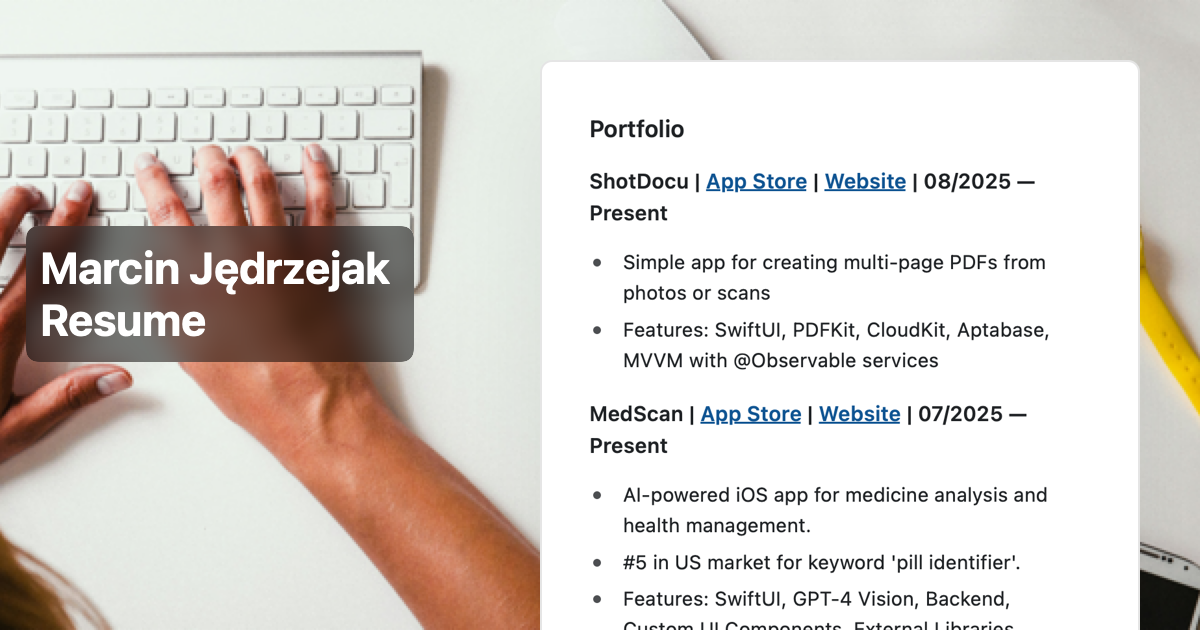
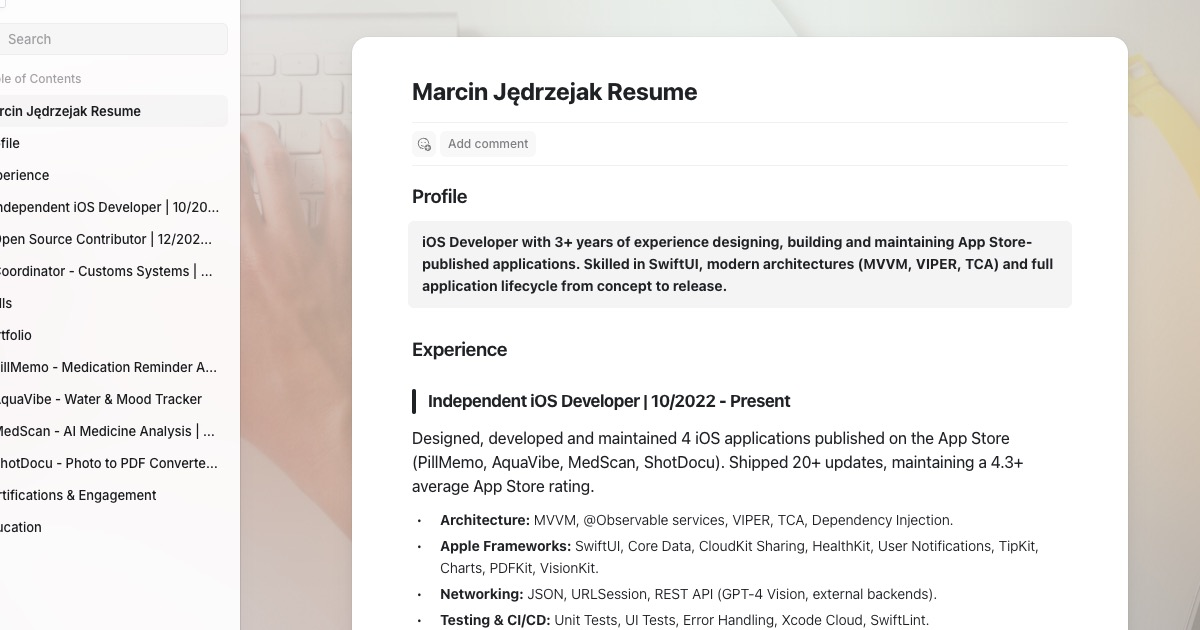
style: Refresh portfolio data and App Store subtitles

diff --git a/index.html b/index.html
@@ -5,7 +5,7 @@
     <meta charset="UTF-8">
     <meta name="viewport" content="width=device-width, initial-scale=1.0">
     <meta http-equiv="Content-Security-Policy"
-        content="default-src 'self'; base-uri 'self'; form-action 'self'; frame-ancestors 'none'; object-src 'none'; img-src 'self' https: data:; font-src 'self' https://fonts.gstatic.com data:; style-src 'self' 'unsafe-inline' https://fonts.googleapis.com; script-src 'self' 'unsafe-inline'; connect-src 'self'; upgrade-insecure-requests">
+        content="default-src 'self'; base-uri 'self'; form-action 'self'; frame-ancestors 'none'; object-src 'none'; img-src 'self' https: data:; font-src 'self' https://fonts.gstatic.com data:; style-src 'self' 'unsafe-inline' https://fonts.googleapis.com; script-src 'self' 'unsafe-inline'; connect-src 'self' https://github-contributions-api.deno.dev https://r.jina.ai; upgrade-insecure-requests">
     <meta name="referrer" content="no-referrer">
     <title>Marcin Jędrzejak</title>
     <link rel="preconnect" href="https://fonts.googleapis.com">
@@ -904,7 +904,7 @@
                         </div>
                         <div class="card__text">
                             <div class="card__title">PillMemo</div>
-                            <div class="card__subtitle">Med Timer & Pill Counter · App Store</div>
+                            <div class="card__subtitle">Med Timer &amp; Pill Counter</div>
                         </div>
                     </div>
                 </a>
@@ -950,7 +950,7 @@
                         </div>
                         <div class="card__text">
                             <div class="card__title">PillMemo Framer</div>
-                            <div class="card__subtitle">Website</div>
+                            <div class="card__subtitle">Landing page</div>
                         </div>
                     </div>
                 </a>
@@ -978,7 +978,7 @@
                         </div>
                         <div class="card__text">
                             <div class="card__title">AquaVibe</div>
-                            <div class="card__subtitle">Daily Goals, Healthy Life · App Store</div>
+                            <div class="card__subtitle">Daily Goals, Healthy Life</div>
                         </div>
                     </div>
                 </a>
@@ -1026,7 +1026,7 @@
                         </div>
                         <div class="card__text">
                             <div class="card__title">MedScan</div>
-                            <div class="card__subtitle">Check meds before you take · App Store</div>
+                            <div class="card__subtitle">Check meds before you take</div>
                         </div>
                     </div>
                 </a>
@@ -1076,7 +1076,7 @@
                         </div>
                         <div class="card__text">
                             <div class="card__title">ShotDocu</div>
-                            <div class="card__subtitle">Convert image into PDFs easily · App Store</div>
+                            <div class="card__subtitle">Convert image into PDFs easily</div>
                         </div>
                     </div>
                 </a>
@@ -1128,7 +1128,7 @@
                         </div>
                         <div class="card__text">
                             <div class="card__title">TinyGifts</div>
-                            <div class="card__subtitle">Open daily advent surprises · App Store</div>
+                            <div class="card__subtitle">Open daily advent surprises</div>
                         </div>
                     </div>
                 </a>
@@ -1177,7 +1177,7 @@
                         </div>
                         <div class="card__text">
                             <div class="card__title">Basic Car Maintenance</div>
-                            <div class="card__subtitle">Open source · Hacktoberfest 2023</div>
+                            <div class="card__subtitle">Open source repository</div>
                         </div>
                     </div>
                 </a>
@@ -1255,9 +1255,9 @@
                     </div>
                     <div class="github-extras">
                         <div class="github-stats">
-                            <span class="github-stats__item"><span class="github-stats__num">121</span>repos</span>
-                            <span class="github-stats__item"><span
-                                    class="github-stats__num">995</span>contributions</span>
+                            <span class="github-stats__item"><span class="github-stats__num">122</span>repos</span>
+                            <span class="github-stats__item"><span id="githubContributions"
+                                    class="github-stats__num">886</span>contributions</span>
                         </div>
                         <div class="heatmap" id="heatmap"></div>
                     </div>
@@ -1278,7 +1278,7 @@
                     <div class="card__info">
                         <div class="card__text">
                             <div class="card__title">@maartin_j</div>
-                            <div class="card__subtitle">123 following</div>
+                            <div class="card__subtitle"><span id="xFollowing">125</span> following</div>
                         </div>
                     </div>
                 </a>
@@ -1342,25 +1342,57 @@
             });
         })();
 
-        // Generate GitHub-style contribution heatmap
+        // Fetch current GitHub contributions and X following.
         (function () {
+            const githubContributions = document.getElementById('githubContributions');
             const heatmap = document.getElementById('heatmap');
-            if (!heatmap) return;
-            const levels = ['', '--l1', '--l2', '--l3', '--l4'];
-            const pattern = [
-                0, 0, 1, 0, 1, 2, 0, 1, 0, 0, 2, 1, 3, 0, 1, 0, 2, 1, 0, 0, 1, 4, 2, 0, 1, 0,
-                1, 0, 0, 2, 0, 1, 1, 0, 2, 1, 0, 3, 1, 0, 0, 1, 0, 2, 1, 0, 3, 2, 1, 0, 0, 1,
-                0, 1, 2, 1, 0, 0, 2, 1, 3, 2, 0, 1, 0, 0, 1, 2, 0, 1, 3, 1, 0, 0, 2, 1, 0, 0,
-                2, 0, 1, 0, 3, 1, 0, 2, 1, 0, 1, 0, 2, 1, 0, 0, 1, 3, 2, 0, 1, 4, 1, 0, 1, 2,
-                0, 0, 0, 1, 2, 0, 1, 0, 0, 1, 2, 0, 1, 0, 1, 0, 0, 2, 1, 0, 0, 1, 0, 2, 0, 0,
-                1, 2, 0, 0, 1, 0, 2, 3, 1, 0, 0, 1, 0, 2, 0, 1, 3, 0, 1, 0, 2, 0, 1, 0, 0, 1,
-                0, 1, 0, 0, 0, 1, 0, 1, 0, 2, 1, 0, 0, 1, 0, 0, 1, 0, 0, 1, 2, 0, 0, 1, 0, 0
-            ];
-            pattern.forEach(function (l) {
-                var d = document.createElement('div');
-                d.className = 'heatmap__cell' + (l ? ' heatmap__cell' + levels[l] : '');
-                heatmap.appendChild(d);
-            });
+            const xFollowing = document.getElementById('xFollowing');
+            const levels = {
+                NONE: '',
+                FIRST_QUARTILE: '--l1',
+                SECOND_QUARTILE: '--l2',
+                THIRD_QUARTILE: '--l3',
+                FOURTH_QUARTILE: '--l4'
+            };
+
+            function renderHeatmap(days) {
+                if (!heatmap) return;
+                heatmap.innerHTML = '';
+                days.slice(-182).forEach(function (day) {
+                    var d = document.createElement('div');
+                    var suffix = levels[day.contributionLevel] || '';
+                    d.className = 'heatmap__cell' + (suffix ? ' heatmap__cell' + suffix : '');
+                    d.title = day.date + ': ' + day.contributionCount + ' contributions';
+                    heatmap.appendChild(d);
+                });
+            }
+
+            fetch('https://github-contributions-api.deno.dev/maartinj.json')
+                .then(function (response) { return response.json(); })
+                .then(function (data) {
+                    var days = (data.contributions || []).flat();
+                    if (!days.length) return;
+                    var total = days.reduce(function (sum, day) {
+                        return sum + (day.contributionCount || 0);
+                    }, 0);
+                    if (githubContributions) {
+                        githubContributions.textContent = String(total);
+                    }
+                    renderHeatmap(days);
+                })
+                .catch(function () {
+                });
+
+            fetch('https://r.jina.ai/http://x.com/maartin_j')
+                .then(function (response) { return response.text(); })
+                .then(function (text) {
+                    var match = text.match(/\[(\d[\d,]*) Following\]\(https:\/\/x\.com\/maartin_j\/following\)/i);
+                    if (match && xFollowing) {
+                        xFollowing.textContent = match[1];
+                    }
+                })
+                .catch(function () {
+                });
         })();
 
         // Open local docs in a script-opened tab so Back button can return to the previous tab reliably.

diff --git a/aquavibe-docs.html b/aquavibe-docs.html
@@ -85,6 +85,15 @@
             font-size: 20px;
         }
 
+        .badge {
+            border: 1px solid var(--border);
+            border-radius: 999px;
+            padding: 4px 10px;
+            font-size: 12px;
+            color: var(--muted);
+            background: var(--surface-2);
+        }
+
         .content {
             padding: 24px;
         }
@@ -208,11 +217,12 @@
         <article class="card">
             <header class="repo-header">
                 <div class="repo-title">😎💧 AquaVibe</div>
+                <span class="badge">App Store: v1.0.4 · 2025-08</span>
             </header>
 
             <section class="content">
                 <h1>😎💧 AquaVibe</h1>
-                <p class="intro">Track your wellness journey with AquaVibe, your all-in-one companion for mood, emotion, and hydration tracking 😊💦</p>
+                <p class="intro">Track your wellness journey with AquaVibe, now published in the App Store as Mood Water Tracker: AquaVibe 😊💦</p>
                 <p>The application allows users to set up to 3 daily reminders for consistent tracking and visualize their well-being with beautiful, interactive charts 📈</p>
 
                 <h2>👨💻 Technology Used</h2>
@@ -294,11 +304,11 @@
                     <li>Error handling &amp; alerts</li>
                     <li>Text input validation</li>
                     <li>Project organization - MVVM Architecture</li>
-                    <li>Published in App Store (09/2024)</li>
+                    <li>Current App Store release: v1.0.4 (08/2025)</li>
                 </ul>
 
                 <h2>ℹ License</h2>
-                <p>The AquaVibe is the property of Marcin Jędrzejak. Unauthorized copying, distribution, or modification of this application is strictly prohibited.</p>
+                <p>AquaVibe is the property of Marcin Jędrzejak. Unauthorized copying, distribution, or modification of this application is strictly prohibited.</p>
 
                 <p class="footer">® 2026 All rights reserved by Marcin Jędrzejak.</p>
             </section>

diff --git a/pillmemo-docs.html b/pillmemo-docs.html
@@ -225,11 +225,12 @@
         <article class="card">
             <header class="repo-header">
                 <div class="repo-title">💊 PillMemo</div>
+                <span class="badge">App Store: v1.4.6 · 2025-09</span>
             </header>
 
             <section class="content">
                 <h1>💊 PillMemo</h1>
-                <p class="intro">PillMemo is an easy-to-use application that helps users remember to take their medicine 🏥</p>
+                <p class="intro">PillMemo is an easy-to-use medication reminder app, currently published in the App Store as Medisafe Carezone: PillMemo 🏥</p>
                 <p>The application allows users to set reminders for different types of medicine and at different times of the
                     day/week/month 📅</p>
 
@@ -397,11 +398,11 @@
                     <li>CI/CD (Xcode Cloud)</li>
                     <li>Project organization (VOODO Architecture)</li>
                     <li>Privacy Manifest</li>
-                    <li>Published in App Store (04/2024)</li>
+                    <li>Current App Store release: v1.4.6 (09/2025)</li>
                 </ul>
 
                 <h2>ℹ License</h2>
-                <p>The PillMemo is the property of Marcin Jędrzejak. Unauthorized copying, distribution, or modification of this
+                <p>PillMemo is the property of Marcin Jędrzejak. Unauthorized copying, distribution, or modification of this
                     application is strictly prohibited.</p>
 
                 <p class="footer">® 2026 All rights reserved by Marcin Jędrzejak.</p>
